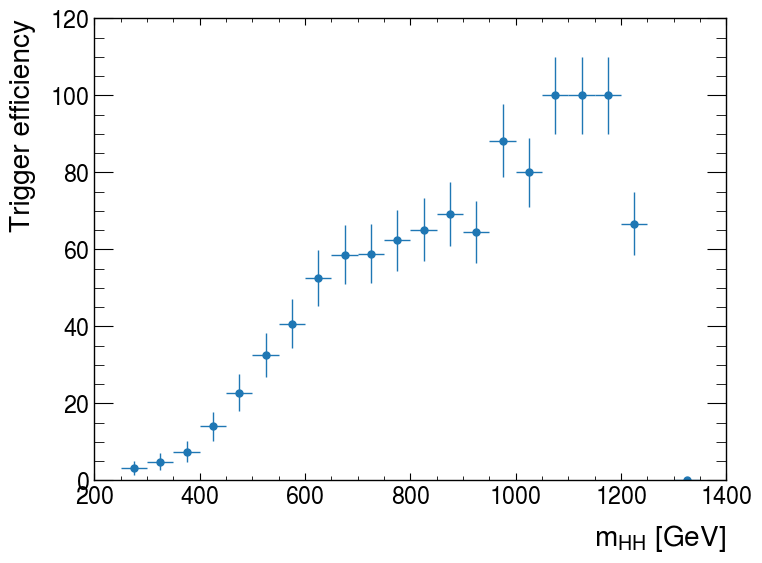
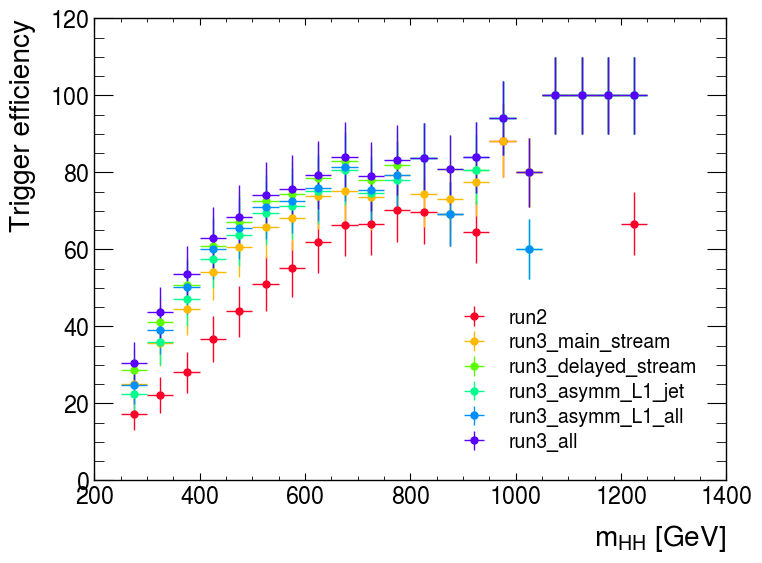
Make jet pT, pT vs eff plots

diff --git a/plot_resolved_HH4b.py b/plot_resolved_HH4b.py
@@ -7,14 +7,31 @@ import mplhep as hep
 
 plt.style.use(hep.style.ATLAS)
 
-ggF_mc_21 = "/lustre/fs22/group/atlas/ruelasv/hh4b-analysis-r22-build/run/analysis-variables.root"
+ggF_mc_21 = "/lustre/fs22/group/atlas/ruelasv/hh4b-analysis-r22-build/run/analysis-variables-run3.root"
 
-trig_list = [
-    "trigPassed_HLT_j150_2j55_0eta290_020jvt_bdl1r70_pf_ftf_preselj80XX2j45b90_L1J85_3J30"
+run3_all = [
+    "HLT_j80c_020jvt_j55c_020jvt_j28c_020jvt_j20c_020jvt_SHARED_2j20c_020jvt_bdl1d77_pf_ftf_presel2c20XX2c20b85_L1J45p0ETA21_3J15p0ETA25",  # 1 asymm
+    "HLT_j80c_020jvt_j55c_020jvt_j28c_020jvt_j20c_020jvt_SHARED_3j20c_020jvt_bdl1d82_pf_ftf_presel2c20XX2c20b85_L1J45p0ETA21_3J15p0ETA25",  # 2 asymm
+    "HLT_j150_2j55_0eta290_020jvt_bdl1d70_pf_ftf_preselj80XX2j45b90_L1J85_3J30",  # 3 symm
+    "HLT_2j35c_020jvt_bdl1d60_2j35c_020jvt_pf_ftf_presel2j25XX2j25b85_L14J15p0ETA25",  # 4 symm,
+    "HLT_j80c_020jvt_j55c_020jvt_j28c_020jvt_j20c_020jvt_SHARED_2j20c_020jvt_bdl1d77_pf_ftf_presel2c20XX2c20b85_L1MU8F_2J15_J20",  # 5 asymm
 ]
+run3_main_stream = run3_all[1:4]
+run3_delayed_stream = run3_all[0:4]
+run3_asymm_L1_jet = run3_all[0:2]
+run3_asymm_L1_all = run3_all[0:2] + run3_all[4:5]
+run2 = run3_all[2:4]
 
+trig_sets = {
+    "run2": run2,
+    "run3_main_stream": run3_main_stream,
+    "run3_delayed_stream": run3_delayed_stream,
+    "run3_asymm_L1_jet": run3_asymm_L1_jet,
+    "run3_asymm_L1_all": run3_asymm_L1_all,
+    "run3_all": run3_all,
+}
 
-invGeV = 1 / 1000
+invGeV = 1 / 1_000
 
 
 def get_truth_diHiggs(data, cuts=None):
@@ -37,19 +54,77 @@ def get_truth_diHiggs(data, cuts=None):
     return H1_p4 + H2_p4
 
 
+def get_valid_jets_pt(data):
+    jets_pt = data["recojet_antikt4_NOSYS_pt"]
+    jets_eta = data["recojet_antikt4_NOSYS_eta"]
+    jets_pt_valid = jets_pt[(jets_pt > 20_000) & (np.abs(jets_eta) < 2.5)]
+    jets_pt_valid = jets_pt_valid[ak.num(jets_pt_valid) > 3]
+    return jets_pt_valid
+
+
+def get_valid_jets_mask(data):
+    jets_pt = data["recojet_antikt4_NOSYS_pt"]
+    jets_eta = data["recojet_antikt4_NOSYS_eta"]
+    jets_pt_valid = jets_pt[(jets_pt > 20_000) & (np.abs(jets_eta) < 2.5)]
+    jets_pt_valid_mask = ak.num(jets_pt_valid) > 3
+    return jets_pt_valid_mask
+
+
 def draw_truth_diHiggs_mass(ax, mass):
     h, bins = np.histogram(mass * invGeV, 100)
     hep.histplot(h, bins, ax=ax)
 
 
+def draw_jet_pt(ax, data, jet_cuts):
+    jets_pt = data["recojet_antikt4_NOSYS_pt"][jet_cuts]
+    leading = jets_pt[:, 0]
+    subleading = jets_pt[:, 1]
+    third_leading = jets_pt[:, 2]
+    fourth_leading = jets_pt[:, 3]
+    mass_res = 10
+    mass_bins = np.arange(20, 1000, mass_res)
+    h_leading, _ = np.histogram(leading * invGeV, mass_bins)
+    h_subleading, _ = np.histogram(subleading * invGeV, mass_bins)
+    h_third_leading, _ = np.histogram(third_leading * invGeV, mass_bins)
+    h_fourth_leading, _ = np.histogram(fourth_leading * invGeV, mass_bins)
+    hep.histplot(h_leading, mass_bins, label="Leading", ax=ax)
+    hep.histplot(h_subleading, mass_bins, label="Subleading", ax=ax)
+    hep.histplot(
+        h_third_leading,
+        mass_bins,
+        label="Third Leading",
+        ax=ax,
+    )
+    hep.histplot(
+        h_fourth_leading,
+        mass_bins,
+        label="Third Leading",
+        ax=ax,
+    )
+
+    ax.legend(loc="upper right")
+    ax.set_xlabel(r"$p_{T}$ [GeV]")
+    ax.set_ylabel("Jets")
+    ax.set_yscale("log")
+
+
 def draw_trig_eff(ax, diHiggs, data):
     diHiggs_mass = ak.ravel(diHiggs.mass)
     mass_res = 50
-    mass_bins = np.arange(200, 1400, mass_res)
+    mass_bins = np.arange(250, 1300, mass_res)
     h_tot, _ = np.histogram(diHiggs_mass * invGeV, mass_bins)
-    for trig in trig_list:
-        passed_trig = diHiggs_mass[data[trig]]
-        print("passed trig: ", passed_trig)
+
+    num_trig_sets = len(trig_sets.keys())
+    cm = plt.get_cmap("gist_rainbow")
+    for i_trig_set, trig_set_key in enumerate(trig_sets.keys()):
+        trig_selections = []
+        for i_trig, trig in enumerate(trig_sets[trig_set_key]):
+            trig_selection = data[f"trigPassed_{trig}"]
+            if i_trig == 0:
+                trig_selections = trig_selection
+            else:
+                trig_selections = trig_selections | trig_selection
+        passed_trig = diHiggs_mass[trig_selections]
         h_pass, _ = np.histogram(passed_trig * invGeV, mass_bins)
         eff = (h_pass / h_tot) * 100
         hep.histplot(
@@ -59,6 +134,8 @@ def draw_trig_eff(ax, diHiggs, data):
             histtype="errorbar",
             xerr=mass_res / 2,
             yerr=np.sqrt(eff),
+            label=trig_set_key,
+            color=cm(1.0 * i_trig_set / num_trig_sets),
         )
         # plt.errorbar(
         #     mass_bins[:-1],
@@ -69,29 +146,66 @@ def draw_trig_eff(ax, diHiggs, data):
         #     markersize=10.0,
         #     elinewidth=1,
         # )
-        ax.set_ylim(0)
+        ax.legend(loc="lower right")
         ax.set_xlabel(r"$m_{HH}$ [GeV]")
         ax.set_ylabel("Trigger efficiency")
+
+
+def draw_jet_pt_vs_trig_eff(axs, data, jet_cuts):
+    jets_pt_pre_trig = data["recojet_antikt4_NOSYS_pt"][jet_cuts]
+    mass_res = 50
+    mass_bins = np.arange(20, 1_000, mass_res)
+    trig_selections = []
+    for i_trig, trig in enumerate(run3_all):
+        trig_selection = data[f"trigPassed_{trig}"]
+        if i_trig == 0:
+            trig_selections = trig_selection
+        else:
+            trig_selections = trig_selections | trig_selection
+
+    # jets_pt_post_trig = data["recojet_antikt4_NOSYS_pt"][trig_selections[jet_cuts]]
+    # jets_pt_post_trig = data["recojet_antikt4_NOSYS_pt"][jet_cuts[trig_selections]]
+
+    jets_pt_post_trig = data["recojet_antikt4_NOSYS_pt"][trig_selections]
+    jets_pt_post_trig = jets_pt_post_trig[jet_cuts[trig_selections]]
+
+    for i in np.arange(0, 4):
+        h_tot, _ = np.histogram(jets_pt_pre_trig[:, i] * invGeV, mass_bins)
+        h_pass, _ = np.histogram(jets_pt_post_trig[:, i] * invGeV, mass_bins)
+        eff = (h_pass / h_tot) * 100
+        hep.histplot(
+            eff,
+            mass_bins,
+            ax=axs[i],
+            histtype="errorbar",
+            xerr=mass_res / 2,
+            yerr=np.sqrt(eff),
+        )
+        label = f"jet_{i+1} "
+        axs[i].set_xlabel(label + r"$p_{T}$ [GeV]")
+        axs[i].set_ylabel("Efficiency")
 
 
 def draw_plots(data_dict):
     fig_diHiggs_mass, ax_diHiggs_mass = plt.subplots()
     fig_trig_eff, ax_trig_eff = plt.subplots()
+    fig_jets_pt, ax_gets_pt = plt.subplots()
+    fig_jet_pt_vs_trig_eff, axs_jet_pt_vs_trig_eff = plt.subplots(
+        2, 2, constrained_layout=True
+    )
 
-    pt_cut = 40
-    eta_cut = 2.5
-    cuts_label = f"$p_T$ > {pt_cut} GeV and $|\eta| < {eta_cut}$"
-    pt_cut = pt_cut / invGeV
     for sample_name, data in data_dict.items():
-        cuts = (data["recojet_antikt4_NOSYS_pt"] > pt_cut) & (
-            np.abs(data["recojet_antikt4_NOSYS_eta"]) < eta_cut
-        )
         diHiggs = get_truth_diHiggs(data)
         draw_truth_diHiggs_mass(ax_diHiggs_mass, diHiggs.mass)
         draw_trig_eff(ax_trig_eff, diHiggs, data)
+        jet_cuts = get_valid_jets_mask(data)
+        draw_jet_pt(ax_gets_pt, data, jet_cuts)
+        draw_jet_pt_vs_trig_eff(axs_jet_pt_vs_trig_eff.flat, data, jet_cuts)
 
     fig_diHiggs_mass.savefig("truth_diHiggs_mass.png", bbox_inches="tight")
-    fig_trig_eff.savefig("trig_eff_vs_truth_diHiggs_massv2.png", bbox_inches="tight")
+    fig_trig_eff.savefig("trig_eff_vs_truth_diHiggs_mass.png", bbox_inches="tight")
+    fig_jets_pt.savefig("leading_jets_pt.png", bbox_inches="tight")
+    fig_jet_pt_vs_trig_eff.savefig("trig_eff_vs_jet_pt.png", bbox_inches="tight")
 
 
 def run():
